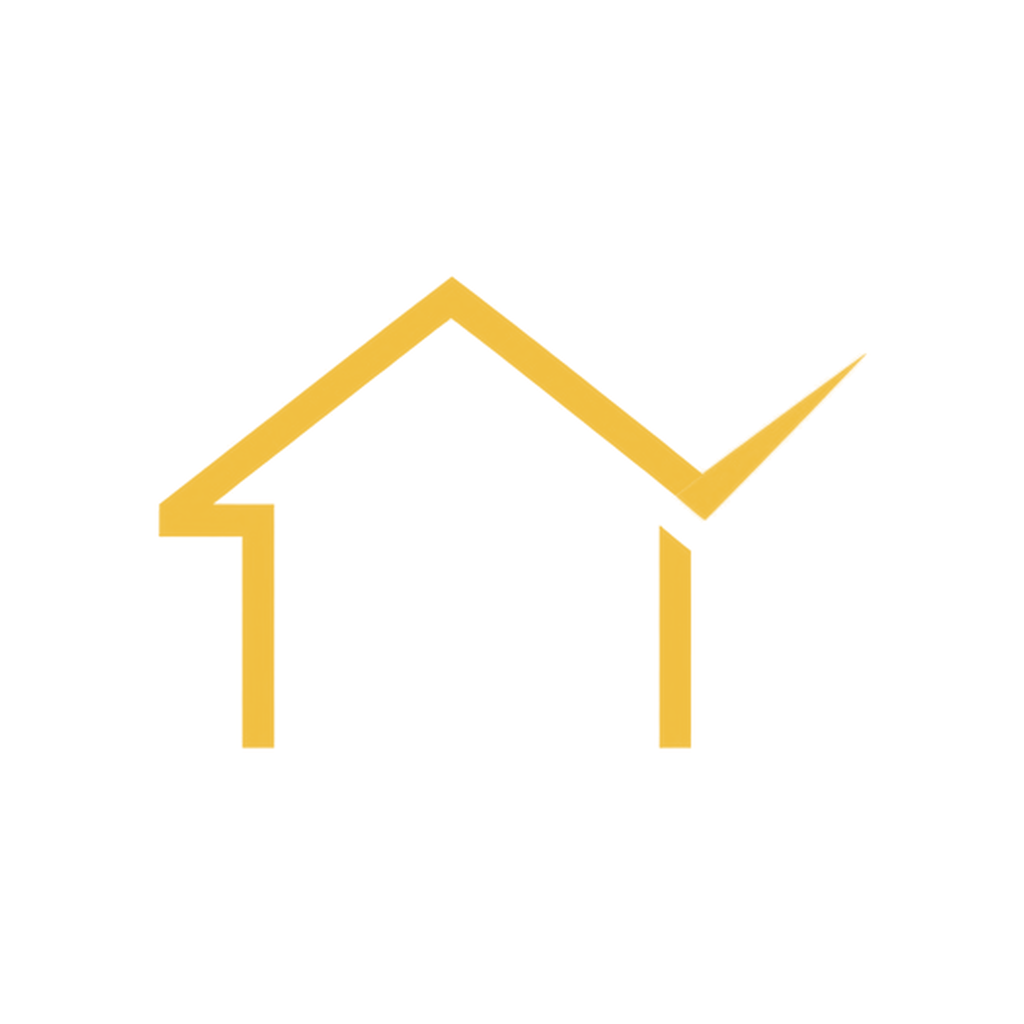
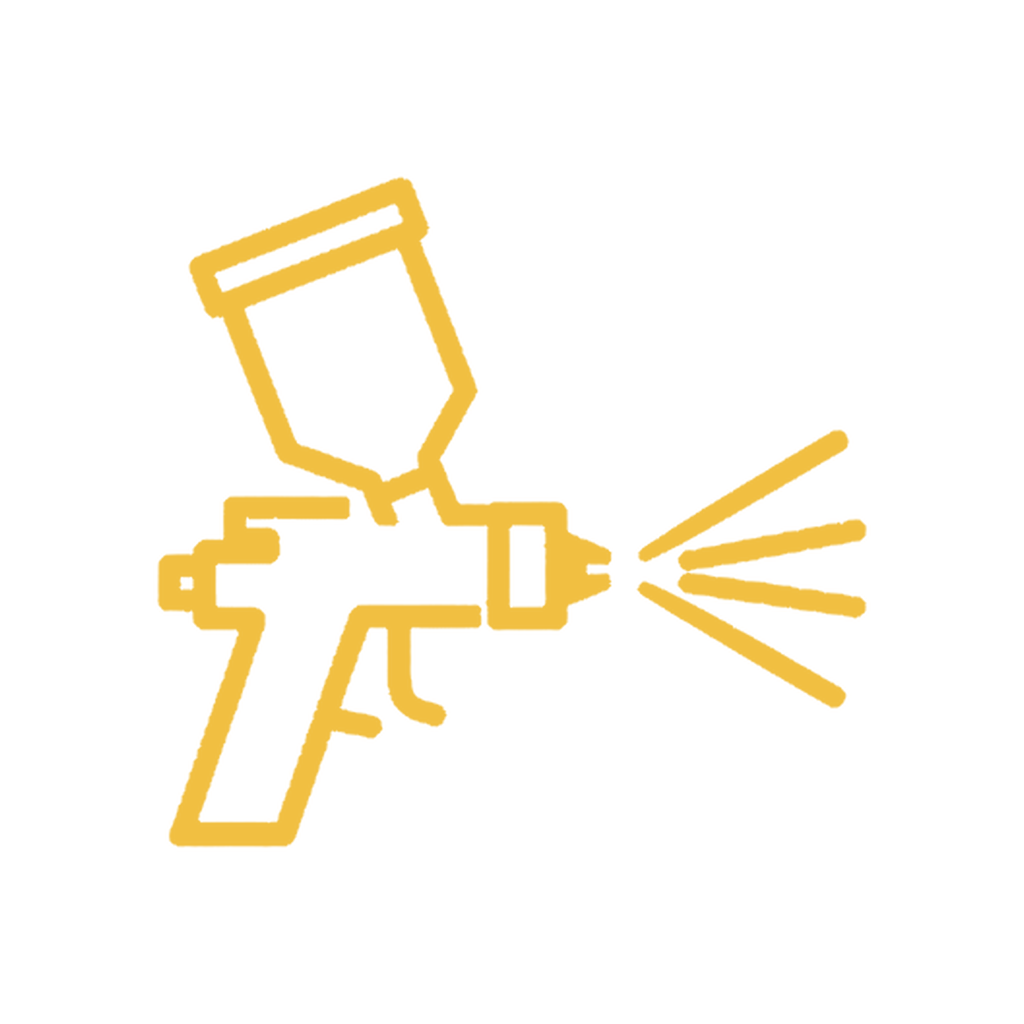
New spray gun mark on image ads; exterior painting takes only finished painted homes from outside; named ads can be archived in Meta
Claude-Session: https://claude.ai/code/session_01Kw4m2c9UAo8TBsm2nFxgbQ

Changed region(s): [[0.1562, 0.1562, 0.8438, 0.8438], [0.8125, 0.3438, 0.8438, 0.375]]

diff --git a/apps/web/convex/lib/ads.ts b/apps/web/convex/lib/ads.ts
@@ -1632,13 +1632,36 @@ export interface AdService {
   scope: string;
   /** The types of work whose photos count as this service. */
   works: string[];
+  /** A photo whose description says any of this is not this service, whatever it is tagged. */
+  not?: RegExp;
+  /** A tag that rules a photo out (an indoor photo for an outdoor service). */
+  notTag?: string;
+  /** What the writer is told to look for when it chooses this service's photos by eye. */
+  eye?: string;
+}
+
+/** Whether a photo counts as a service: tagged as its work, and nothing in its tags or description rules it out. */
+export function photoOfService(service: AdService, photo: { tags: readonly string[]; description?: string }): boolean {
+  if (!photo.tags.some((t) => service.works.includes(t))) return false;
+  if (service.notTag && photo.tags.includes(service.notTag)) return false;
+  return !service.not?.test(photo.description ?? "");
 }
 
 /** What ads may be about, by trade (the owner, Nov 2026: cabinet painting and exterior painting for now). One line adds another. */
 export const AD_SERVICES: Record<string, AdService[]> = {
   painting: [
     { key: "cabinets", label: "Cabinet painting", scope: "cabinets", works: ["cabinets-painted"] },
-    { key: "exterior", label: "Exterior painting", scope: "exterior", works: ["exterior-repaint", "brick"] },
+    {
+      key: "exterior",
+      label: "Exterior painting",
+      scope: "exterior",
+      works: ["exterior-repaint", "brick"],
+      // The owner's exterior test (Nov 2026) drew a storage building, an indoor fireplace, stained doors and jobs with
+      // ladders up: an exterior ad shows finished painted homes from outside, nothing else.
+      notTag: "interior",
+      not: /\b(commercial|storage|warehouse|shop|office|store ?front|business|industrial|roll[- ]up|indoors?|inside|interior|fireplace|living room|stain(?:ed|ing)?|scaffold\w*|ladders?|in progress|unfinished|mask(?:ed|ing)|tarps?|drop cloths?)\b/i,
+      eye: "Only the finished outside of a home, painted: the house itself fills the picture. Pass over a commercial or storage building, anything indoors, a stained (not painted) door, and any photo with a ladder, scaffolding, masking or an open garage full of things.",
+    },
   ],
 };
 export const adServicesOf = (trade: string): AdService[] => AD_SERVICES[trade] ?? [];
@@ -1844,6 +1867,7 @@ export function imageAdPrompt(
     ),
     "",
     ...(byEye ? IMAGE_BY_EYE : []),
+    ...(byEye && service?.eye ? [`- ${service.eye}`] : []),
     `Choose ${want} that best carries this ad. BEST photos are the owner's favourites: use them first, even when already in ads. Among the rest, choose ones with uses 0 wherever some fit. The words must be true of what the chosen ${type.layout === "single" ? "photo shows" : "photos show"}: name only what its description says.`,
     type.layout === "grid" ? "Every word of the headline and the line under it must be true of every photo chosen, not most of them: if one has no island, don't say islands." : "",
     ...(avoid.length ? [`Already made in this set, so take a different angle and different photos from these: ${avoid.map((h) => `"${h}"`).join(", ")}.`] : []),
@@ -1886,6 +1910,7 @@ export const IMAGE_SHORTLIST_MARK = "Shortlist photos for one static image ad";
 export function imageShortlistPrompt(type: ImageAdType, service: AdService | undefined, candidates: ImageCandidate[], max: number, avoid: string[] = []): string {
   return [
     `${IMAGE_SHORTLIST_MARK}${service ? ` about ${service.label.toLowerCase()}` : ""} (${type.label.toLowerCase()}). From what each shows, pick the ${max} ${type.layout === "pair" ? "pairs" : "photos"} most likely to make a strong ad: the work is the main subject and fills the picture, the room is finished and tidy, and it would stop a homeowner scrolling.`,
+    service?.eye ?? "",
     "BEST marks the owner's favourite shots: put every BEST one that fits on the list first, even if it is already in ads. For the rest, prefer ones with uses 0.",
     type.layout === "grid" ? "Take them from as many different projects as you can." : "",
     avoid.length ? `Other ads in this set are already being made, so favour different photos from the obvious first picks.` : "",
@@ -1907,7 +1932,7 @@ export const IMAGE_BY_EYE = [
   "The photos are attached below, each labelled with its number. Look at them: choose by what you see, not only by the descriptions.",
   "- Pass over a photo where the work barely shows (a close-up of a sink or a counter with a sliver of cabinet), one with black bars, a border or phone-screen clutter, a blurry or dark one, a collage, or one where mess or a person is what you notice first.",
   "- Choose photos where the work is the main subject, well lit, and looks like something a homeowner would want.",
-  "- List the strongest photo first: it is shown largest. It must be a whole finished room (a full kitchen), never a detail, a single cupboard or empty shelves.",
+  "- List the strongest photo first: it is shown largest. It must show the whole of the work (a full kitchen, the whole front of a house), never a detail, a single cupboard, one door or empty shelves.",
 ];
 
 export interface ImageAdPlan {

diff --git a/apps/web/convex/ads.ts b/apps/web/convex/ads.ts
@@ -38,6 +38,7 @@ import {
   BRAND_GUIDE,
   guidePassed,
   isCollage,
+  photoOfService,
   readImageAd,
   type ImageCandidate,
   type ImageAdPlan,
@@ -5103,6 +5104,44 @@ export const archiveOld = internalAction({
   },
 });
 
+/** Archives named ads in Meta (ones the owner turned down after they went in) and sets them aside here. Never a live one. */
+export const archiveAds = internalAction({
+  args: { names: v.array(v.string()) },
+  handler: async (ctx, { names }) => {
+    const token = await metaToken(ctx);
+    if (!token) fail("INVALID", "Connect Meta in Settings first");
+    const rows: Array<{ name: string; adId?: string; status: string }> = await ctx.runQuery(internal.ads.adIdsOf, { names });
+    const archived: string[] = [];
+    const skipped: string[] = [];
+    for (const r of rows) {
+      if (!r.adId || r.status === "live") {
+        skipped.push(`${r.name}: ${r.status === "live" ? "is running" : "not in Meta"}`);
+        continue;
+      }
+      try {
+        await graph(r.adId, { status: "ARCHIVED" }, "Archive ad", token!);
+        archived.push(r.adId);
+      } catch (e) {
+        skipped.push(`${r.name}: ${errText(e)}`);
+      }
+    }
+    const cleared: number = await ctx.runMutation(internal.ads.markArchived, { adIds: archived });
+    return { archived: archived.length, cleared, skipped };
+  },
+});
+
+export const adIdsOf = internalQuery({
+  args: { names: v.array(v.string()) },
+  handler: async (ctx, { names }) => {
+    const out: Array<{ name: string; adId?: string; status: string }> = [];
+    for (const name of names) {
+      const c = await ctx.db.query("adCreatives").withIndex("by_name", (q) => q.eq("name", name)).first();
+      out.push({ name, adId: c?.meta?.adId, status: c?.status ?? "not found" });
+    }
+    return out;
+  },
+});
+
 /** Ads archived in Meta leave the review list here too: they can no longer be approved. */
 export const markArchived = internalMutation({
   args: { adIds: v.array(v.string()) },
@@ -5289,7 +5328,7 @@ export const imageAdInput = internalQuery({
     if (!service) fail("INVALID", "Choose what the ad is about");
     const row = await settingsRow(ctx);
     // Only photos of the service: an ad about cabinet painting never shows a staircase.
-    const ofService = (a: Doc<"adAssets">) => a.tags.some((t) => service!.works.includes(t));
+    const ofService = (a: Doc<"adAssets">) => photoOfService(service!, a);
     const photos = (await ctx.db.query("adAssets").take(500)).filter((a) => a.kind === "photo" && inTrade(a, trade.slug) && a.description);
     const drawable: typeof photos = [];
     const urlOf = new Map<string, string>();
@@ -5367,7 +5406,8 @@ export const imageAdInput = internalQuery({
       playbook,
       imageAds: auto.imageAds,
       scope: service!.scope,
-      service: service!,
+      // Without its filter (a pattern can't be passed between functions): the writer needs only its name and what to look for.
+      service: { key: service!.key, label: service!.label, scope: service!.scope, works: service!.works, eye: service!.eye },
     };
   },
 });

diff --git a/apps/web/convex/ads.test.ts b/apps/web/convex/ads.test.ts
@@ -58,7 +58,7 @@ import {
   requestPrompt,
 } from "./lib/ads";
 import { setup, signUp } from "./test.setup";
-import { AD_TRADES, BRAND_GUIDE, imageAdIssues, isCollage, IMAGE_AD_TYPES, pickImageModels, imageAdProblems, imageAdPrompt, jobPlaceClaim, forbiddenIn, cutText, cleanItems, describePrompt, itemsIn, oneStage, pairingPrompt, readPairing, withoutJobNames } from "./lib/ads";
+import { AD_TRADES, AD_SERVICES, photoOfService, BRAND_GUIDE, imageAdIssues, isCollage, IMAGE_AD_TYPES, pickImageModels, imageAdProblems, imageAdPrompt, jobPlaceClaim, forbiddenIn, cutText, cleanItems, describePrompt, itemsIn, oneStage, pairingPrompt, readPairing, withoutJobNames } from "./lib/ads";
 import { SWIPE_SEEDS } from "./catalog/swipes";
 
 type T = ReturnType<typeof setup>;
@@ -3315,6 +3315,20 @@ describe("the weekly run", () => {
     const prompt = imageAdPrompt(type, "GoodFit Painting", "Midland", AD_TRADES.painting, cands);
     for (const g of BRAND_GUIDE.filter((x) => x.where !== "look")) expect(prompt).toContain(g.rule);
     expect(prompt).toContain('The name is "GoodFit Painting"');
+  });
+
+  test("exterior painting takes only finished painted homes from outside: no commercial building, indoor brick, stained door or job with a ladder up", () => {
+    const ext = AD_SERVICES.painting.find((x) => x.key === "exterior")!;
+    const is = (tags: string[], description: string) => photoOfService(ext, { tags, description });
+    expect(is(["exterior", "exterior-repaint", "after"], "A single-storey house repainted white with black trim and a teal front door.")).toBe(true);
+    expect(is(["exterior", "brick", "after"], "A brick house painted white.")).toBe(true);
+    expect(is(["exterior", "exterior-repaint", "after"], "A commercial storage building with blue roll-up doors.")).toBe(false);
+    expect(is(["interior", "brick", "after"], "A painted brick fireplace.")).toBe(false);
+    expect(is(["exterior", "exterior-repaint", "after"], "A stained wood double front door with iron scrollwork.")).toBe(false);
+    expect(is(["exterior", "exterior-repaint", "after"], "A grey house with a ladder against the wall.")).toBe(false);
+    expect(is(["cabinets", "cabinets-painted", "after"], "A painted kitchen.")).toBe(false);
+    const prompt = imageAdPrompt(IMAGE_AD_TYPES[0], "GoodFit Painting", "Midland", AD_TRADES.painting, [{ n: 1, tags: [], description: "A house.", uses: 0 }], undefined, new Date(), [], ext, [], undefined, true);
+    expect(prompt).toContain("Only the finished outside of a home");
   });
 
   test("an image ad's printed words never place the pictured work in the town", () => {

diff --git a/ads-video/src/formats/Still.tsx b/ads-video/src/formats/Still.tsx
@@ -23,7 +23,7 @@ const NAVY = "#0f1c42";
 const GOLD = "#f2c043";
 const SHADE = "15,28,66";
 
-/** The mark (the gold house and tick on navy) as a disc with a white rim, to sit where photos meet or beside the name. */
+/** The mark (the gold spray gun on navy, the logo of Nov 2026) as a disc with a white rim, to sit where photos meet or beside the name. */
 const Mark: React.FC<{ size: number; left: number; top: number }> = ({ size, left, top }) => (
   <div
     style={{
@@ -40,7 +40,7 @@ const Mark: React.FC<{ size: number; left: number; top: number }> = ({ size, lef
       boxShadow: "0 10px 34px rgba(0,0,0,0.4)",
     }}
   >
-    <Img src={staticFile("brand/mark-navy.png")} style={{ width: "100%", height: "100%", objectFit: "cover", transform: "scale(1.08)" }} />
+    <Img src={staticFile("brand/mark-navy.png")} style={{ width: "100%", height: "100%", objectFit: "cover" }} />
   </div>
 );
 
